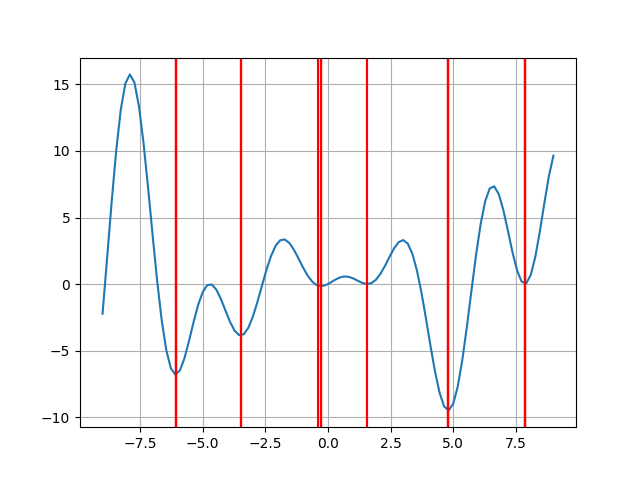
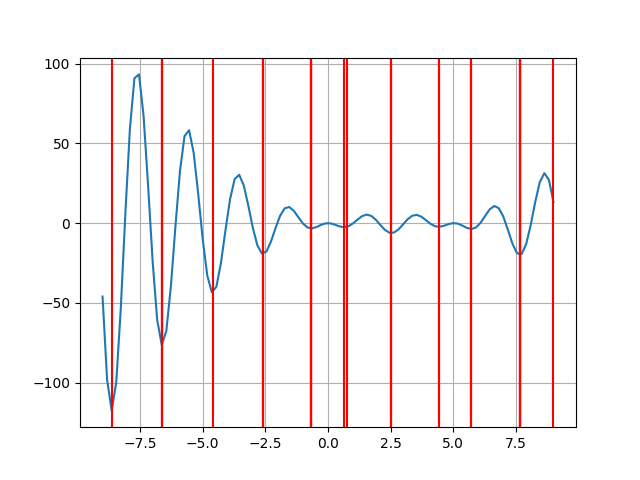
minor improvement,tested for more functions. The greater C1,the better the performance

diff --git a/PSO_findlocmin.py b/PSO_findlocmin.py
@@ -11,7 +11,7 @@ class PSO:
 	def __init__(self,pN,dim,max_iter):
 	    self.w=1.0
 	    self.wdamp=0.99
-	    self.c1=2.0
+	    self.c1=10.0
 	    self.c2=0.0
 	    self.pN=pN
 	    self.lb=-9.
@@ -27,7 +27,8 @@ class PSO:
 	
         #-----------target function---------#
 	def function(self,X): ##X is local
-	    return X*sin(X)+X*cos(2*X)  
+#	    return X*sin(X)+X*cos(2*X)  
+	    return (X**2-5*X)*sin(3.1*X) 
 
         #-----------PSO objects initialization---------#
 	def init_Population(self):
@@ -45,12 +46,10 @@ class PSO:
         #-------------PSO iteration-------------#
 	def iterator(self):
 	     locmin=[]
-	     xls=[]
 	     pfitls=[]
-	     fitness=[]
+	     xls=[]
 	     for i in range(self.max_iter):
 	         self.w=self.w*self.wdamp
-	 	 fitness.append(self.g_fit)
 		 pfitls.append(self.p_fit[0])
 		 tmp=self.pbest[0][0]
 		 xls.append(tmp)
@@ -74,11 +73,12 @@ class PSO:
 		         if self.X[j][k]>self.ub: self.X[j][k]=self.ub
 	     for i in range(self.pN):
 	         locmin.append(self.pbest[i][0])
-	     return fitness,pfitls,xls,locmin
+	     return pfitls,xls,locmin
 
 
-def function(x):
-	return x*sin(x)+x*cos(2*x)
+def function(X):
+#	return x*sin(x)+x*cos(2*x)
+	return (X**2-5*X)*sin(3.1*X) 
 
 def plotting(mls):
 	xs=linspace(-9,9,100)
@@ -92,16 +92,16 @@ def plotting(mls):
 
 
 if __name__=="__main__":
-	my_pso=PSO(pN=30,dim=1,max_iter=150)
+	my_pso=PSO(pN=30,dim=1,max_iter=500)
 	my_pso.init_Population()
-	fitness,pfitls,xls,locmins=my_pso.iterator()
+	pfitls,xls,locmins=my_pso.iterator()
+	figure(1)
+	title('personal_best y_0 vs iteration')
+	plot(range(my_pso.max_iter),pfitls,'o-')
 	figure(2)
-	title('personal_best y vs iteration')
-	plot(range(my_pso.max_iter),pfitls,'*-')
-	figure(3)
 	title('personal_best x_0 vs iteration')
-	plot(range(my_pso.max_iter),xls,'*-')
-	figure(4)
+	plot(range(my_pso.max_iter),xls,'o-')
+	figure(3)
 	plotting(locmins)
 	show()
 	###
